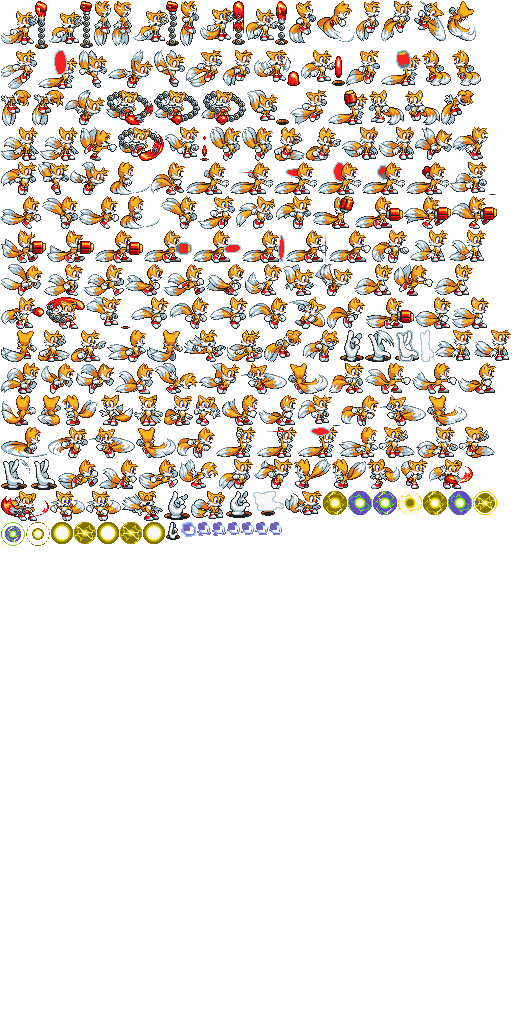
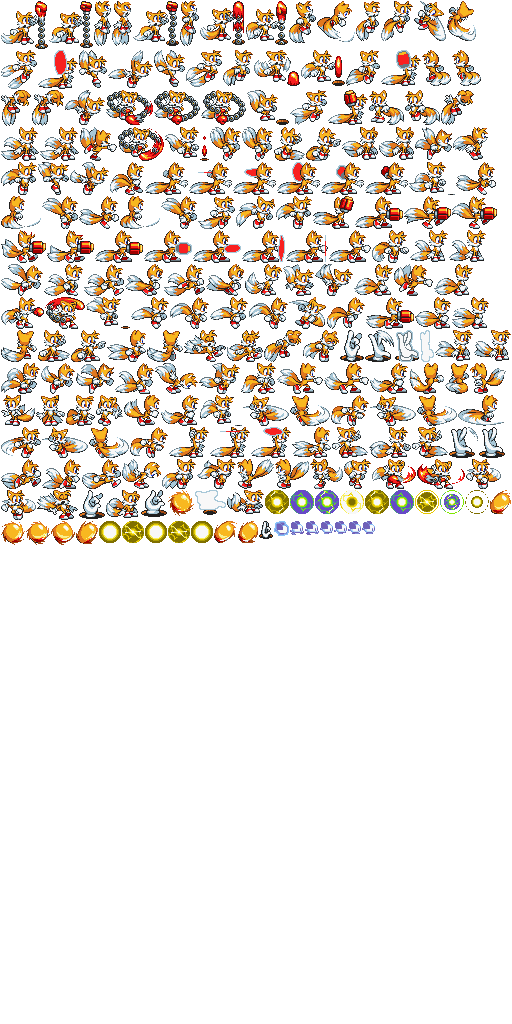
Adventure 2: Sonic's Spin Dash for everyone but Rouge, in their colours
Only Sonic's sheet has a Spin Dash, so the packer lends his (Sonic Wave's
spin in place, Sonic Meteor's ball) to Tails, Knuckles, Amy and Shadow,
swapping his four blues for their own main colour from each sheet's palette
strip. Amy gains the move; the others rev and roll as their coloured ball.
Rouge has none: Down + Space does nothing for her (a plank still drops).

(Carried over from Mikale4/post-parade@13b97d0, where Red Ring Circuit began as the hall's arcade cabinet.)

Changed region(s): [[0.0, 0.3438, 1.0, 0.5312], [0.2188, 0.1562, 0.9688, 0.1875], [0.0, 0.1875, 0.0938, 0.2188]]

diff --git a/adventure-sprites.js b/adventure-sprites.js
@@ -36,37 +36,39 @@
       "fx.airshot": [[53,64,50,50,25.0],[350,64,47,47,23.5],[104,64,49,49,24.5],[1,64,51,51,25.5],[154,64,47,49,23.5],[1,116,46,46,23.0],[398,64,47,47,23.5],[258,64,52,48,26.0],[311,64,38,48,19.0]],
       "fx.ring": [[452,440,15,15,7.5],[468,440,14,15,7.0],[483,440,14,15,7.0],[1,469,14,15,7.0],[48,469,15,13,7.5]],
       "fx.trap": [[64,469,15,13,7.5],[80,469,16,13,8.0],[16,469,16,15,8.0],[33,469,14,15,7.0]],
+      "spin": [[59,440,26,26,12.9],[148,440,24,24,12.0],[173,440,24,24,12.1],[198,440,24,24,12.0]],
     } },
     tails: { url: "assets/guests/sb-tails.png", w: 512, h: 1024, f: {
       "idle": [[410,230,38,32,27.6],[435,330,38,31,27.5],[342,127,36,33,26.6],[1,127,38,34,26.1],[449,230,37,32,26.6],[474,330,37,31,26.5],[379,127,35,33,25.6],[40,127,39,34,27.1]],
       "dash": [[1,363,39,31,25.2],[1,264,42,32,22.6],[415,127,37,33,20.5],[41,363,34,31,19.5],[76,363,38,31,20.7]],
       "start": [[44,264,39,32,29.2]],
-      "run": [[84,264,40,32,29.8],[115,363,39,31,27.3],[125,264,38,32,29.9],[58,459,40,30,28.8],[164,264,41,32,29.1],[99,459,39,30,28.8],[206,264,38,32,29.9],[139,459,39,30,27.8]],
-      "skid": [[453,127,35,33,23.9],[155,363,43,31,11.4],[179,459,39,30,18.9],[245,264,37,32,26.8]],
-      "jump": [[94,1,17,45,8.7],[112,1,20,45,10.7],[356,1,24,40,15.9],[223,50,30,36,20.0],[219,459,34,30,23.6]],
+      "run": [[84,264,40,32,29.8],[115,363,39,31,27.3],[125,264,38,32,29.9],[1,459,40,30,28.8],[164,264,41,32,29.1],[42,459,39,30,28.8],[206,264,38,32,29.9],[82,459,39,30,27.8]],
+      "skid": [[453,127,35,33,23.9],[155,363,43,31,11.4],[122,459,39,30,18.9],[245,264,37,32,26.8]],
+      "jump": [[94,1,17,45,8.7],[112,1,20,45,10.7],[356,1,24,40,15.9],[223,50,30,36,20.0],[162,459,34,30,23.6]],
       "fall": [[1,162,36,33,22.7],[38,162,31,33,13.9],[79,50,28,38,11.2],[154,50,31,37,14.2]],
-      "land": [[283,264,31,32,12.3],[285,491,37,24,22.9],[191,491,34,28,24.0]],
-      "fly": [[199,363,41,31,26.4],[108,50,45,38,30.1],[65,90,40,35,21.0],[315,264,38,32,16.1],[70,162,39,33,22.2],[254,459,39,30,23.0]],
-      "roll": [[241,363,46,31,16.8],[288,363,40,31,11.0],[110,162,40,33,15.4]],
-      "atk1": [[329,363,35,31,24.6],[151,162,34,33,24.6],[365,363,46,31,24.8],[412,363,45,31,29.4],[458,363,38,31,29.0],[354,264,39,32,29.0]],
-      "atk2": [[1,395,35,31,20.6],[37,395,24,31,14.0],[294,459,37,30,18.6],[332,459,34,30,16.5],[62,395,36,31,14.1],[99,395,34,31,11.9],[134,395,29,31,14.5],[164,395,29,31,18.5]],
-      "atk3": [[367,459,33,30,11.0],[194,395,27,31,11.9],[401,459,27,30,13.2],[80,127,37,34,14.2],[394,264,39,32,17.4],[222,395,36,31,23.1],[259,395,38,31,29.0],[434,264,39,32,29.0]],
-      "heavy": [[186,162,43,33,29.9],[230,162,43,33,28.8],[274,162,43,33,26.8],[318,162,43,33,26.1],[362,162,43,33,26.9],[406,162,43,33,27.8],[1,297,43,32,25.2],[429,459,44,30,22.7],[1,491,48,30,22.4],[45,297,40,32,20.9],[118,127,46,34,20.4],[106,90,47,35,20.0],[154,90,46,35,20.3],[201,90,45,35,20.6]],
-      "upper": [[298,395,42,31,20.0],[86,297,44,32,17.7],[247,90,42,35,13.1],[254,50,46,36,22.8],[200,1,45,44,31.6],[1,1,47,48,35.1],[133,1,46,45,33.0],[49,1,44,47,33.3],[246,1,42,44,29.6],[301,50,44,36,23.4],[165,127,44,34,20.5],[450,162,46,33,26.4]],
-      "dashatk": [[1,196,40,33,29.7],[131,297,38,32,27.8],[50,491,35,30,14.5],[241,363,46,31,16.8],[288,363,40,31,11.0],[110,162,40,33,15.4],[341,395,38,31,28.6],[170,297,39,32,24.2],[42,196,36,33,18.1],[210,127,31,34,14.4]],
-      "airatk": [[79,196,40,33,29.7],[210,297,38,32,27.8],[86,491,35,30,14.5],[380,395,46,31,16.8],[427,395,40,31,11.0],[1,427,46,31,31.5],[48,427,40,31,29.1],[89,427,46,31,16.8],[136,427,40,31,11.0],[120,196,40,33,15.4],[177,427,38,31,28.6],[249,297,39,32,24.2],[161,196,36,33,18.1],[242,127,31,34,14.4]],
+      "land": [[283,264,31,32,12.3],[227,490,37,24,22.9],[106,490,34,28,24.0]],
+      "fly": [[199,363,41,31,26.4],[108,50,45,38,30.1],[65,90,40,35,21.0],[315,264,38,32,16.1],[70,162,39,33,22.2],[197,459,39,30,23.0]],
+      "atk1": [[241,363,35,31,24.6],[110,162,34,33,24.6],[277,363,46,31,24.8],[324,363,45,31,29.4],[370,363,38,31,29.0],[354,264,39,32,29.0]],
+      "atk2": [[409,363,35,31,20.6],[445,363,24,31,14.0],[237,459,37,30,18.6],[275,459,34,30,16.5],[470,363,36,31,14.1],[1,395,34,31,11.9],[36,395,29,31,14.5],[66,395,29,31,18.5]],
+      "atk3": [[310,459,33,30,11.0],[96,395,27,31,11.9],[344,459,27,30,13.2],[80,127,37,34,14.2],[394,264,39,32,17.4],[124,395,36,31,23.1],[161,395,38,31,29.0],[434,264,39,32,29.0]],
+      "heavy": [[145,162,43,33,29.9],[189,162,43,33,28.8],[233,162,43,33,26.8],[277,162,43,33,26.1],[321,162,43,33,26.9],[365,162,43,33,27.8],[1,297,43,32,25.2],[372,459,44,30,22.7],[417,459,48,30,22.4],[45,297,40,32,20.9],[118,127,46,34,20.4],[106,90,47,35,20.0],[154,90,46,35,20.3],[201,90,45,35,20.6]],
+      "upper": [[200,395,42,31,20.0],[86,297,44,32,17.7],[247,90,42,35,13.1],[254,50,46,36,22.8],[200,1,45,44,31.6],[1,1,47,48,35.1],[133,1,46,45,33.0],[49,1,44,47,33.3],[246,1,42,44,29.6],[301,50,44,36,23.4],[165,127,44,34,20.5],[409,162,46,33,26.4]],
+      "dashatk": [[456,162,40,33,29.7],[131,297,38,32,27.8],[466,459,35,30,14.5],[243,395,46,31,16.8],[290,395,40,31,11.0],[1,196,40,33,15.4],[331,395,38,31,28.6],[170,297,39,32,24.2],[42,196,36,33,18.1],[210,127,31,34,14.4]],
+      "airatk": [[79,196,40,33,29.7],[210,297,38,32,27.8],[1,490,35,30,14.5],[370,395,46,31,16.8],[417,395,40,31,11.0],[458,395,46,31,31.5],[1,427,40,31,29.1],[42,427,46,31,16.8],[89,427,40,31,11.0],[120,196,40,33,15.4],[130,427,38,31,28.6],[249,297,39,32,24.2],[161,196,36,33,18.1],[242,127,31,34,14.4]],
       "seek": [[180,1,19,45,9.0],[289,1,27,42,15.4],[346,50,34,36,22.8],[1,50,36,39,24.8],[290,90,37,35,26.4],[198,196,37,33,25.6],[186,50,36,37,25.6]],
       "aim": [[381,1,32,40,21.3],[236,196,39,33,24.8],[289,297,37,32,18.8],[414,1,32,40,16.6],[447,1,29,40,14.5],[317,1,38,41,25.4],[327,297,38,32,28.6],[276,196,36,33,22.7]],
-      "shot": [[216,427,40,31,29.0],[257,427,40,31,28.0],[298,427,40,31,25.8],[38,50,40,39,24.2],[381,50,40,36,24.9],[328,90,40,35,25.6],[313,196,41,33,31.1],[366,297,48,32,27.8],[355,196,48,33,27.7],[404,196,47,33,26.6],[452,196,45,33,21.1],[1,230,45,33,23.2],[47,230,47,33,26.4],[95,230,48,33,27.7],[144,230,48,33,27.7],[193,230,48,33,27.7],[242,230,43,33,29.9],[286,230,42,33,28.3],[329,230,42,33,27.7],[415,297,36,32,26.4],[452,297,37,32,27.0]],
-      "power": [[339,427,39,31,29.4],[1,330,36,32,24.0],[422,50,29,36,9.3],[369,90,35,35,9.8],[379,427,36,31,16.5],[38,330,32,32,15.6],[71,330,35,32,18.7],[416,427,42,31,28.6]],
-      "airpower": [[107,330,39,32,30.4],[147,330,36,32,24.0],[452,50,29,36,9.3],[405,90,35,35,9.8],[459,427,36,31,17.2],[274,127,31,34,15.6],[306,127,35,34,20.1],[372,230,37,33,25.0]],
-      "trap": [[339,427,39,31,29.4],[1,330,36,32,24.0],[422,50,29,36,9.3],[369,90,35,35,9.8],[379,427,36,31,16.5],[38,330,32,32,15.6],[71,330,35,32,18.7],[416,427,42,31,28.6]],
-      "airtrap": [[107,330,39,32,30.4],[147,330,36,32,24.0],[452,50,29,36,9.3],[405,90,35,35,9.8],[459,427,36,31,17.2],[274,127,31,34,15.6],[306,127,35,34,20.1],[372,230,37,33,25.0]],
-      "hit": [[122,491,41,30,20.5],[184,330,42,32,22.2],[227,330,36,32,23.4]],
+      "shot": [[169,427,40,31,29.0],[210,427,40,31,28.0],[251,427,40,31,25.8],[38,50,40,39,24.2],[381,50,40,36,24.9],[328,90,40,35,25.6],[313,196,41,33,31.1],[366,297,48,32,27.8],[355,196,48,33,27.7],[404,196,47,33,26.6],[452,196,45,33,21.1],[1,230,45,33,23.2],[47,230,47,33,26.4],[95,230,48,33,27.7],[144,230,48,33,27.7],[193,230,48,33,27.7],[242,230,43,33,29.9],[286,230,42,33,28.3],[329,230,42,33,27.7],[415,297,36,32,26.4],[452,297,37,32,27.0]],
+      "power": [[292,427,39,31,29.4],[1,330,36,32,24.0],[422,50,29,36,9.3],[369,90,35,35,9.8],[332,427,36,31,16.5],[38,330,32,32,15.6],[71,330,35,32,18.7],[369,427,42,31,28.6]],
+      "airpower": [[107,330,39,32,30.4],[147,330,36,32,24.0],[452,50,29,36,9.3],[405,90,35,35,9.8],[412,427,36,31,17.2],[274,127,31,34,15.6],[306,127,35,34,20.1],[372,230,37,33,25.0]],
+      "trap": [[292,427,39,31,29.4],[1,330,36,32,24.0],[422,50,29,36,9.3],[369,90,35,35,9.8],[332,427,36,31,16.5],[38,330,32,32,15.6],[71,330,35,32,18.7],[369,427,42,31,28.6]],
+      "airtrap": [[107,330,39,32,30.4],[147,330,36,32,24.0],[452,50,29,36,9.3],[405,90,35,35,9.8],[412,427,36,31,17.2],[274,127,31,34,15.6],[306,127,35,34,20.1],[372,230,37,33,25.0]],
+      "hit": [[37,490,41,30,20.5],[184,330,42,32,22.2],[227,330,36,32,23.4]],
       "out": [[1,90,30,36,16.5],[32,90,32,36,18.4],[441,90,33,35,19.8],[264,330,38,32,28.5],[303,330,36,32,26.3]],
-      "fx.shot": [[323,491,24,24,12.0],[51,522,22,22,11.0],[348,491,24,24,12.0],[74,522,22,22,11.0],[373,491,24,24,12.0],[97,522,22,22,11.0],[398,491,24,24,12.0],[120,522,22,22,11.0],[423,491,24,24,12.0],[143,522,22,22,11.0],[448,491,24,24,12.0],[473,491,24,24,12.0],[1,522,24,24,12.0],[26,522,24,24,12.0]],
-      "fx.power": [[166,522,14,18,7.0],[340,330,24,32,12.0],[226,491,26,27,13.0],[164,491,26,29,13.0],[365,330,29,32,14.5],[1,459,29,31,14.5],[31,459,26,31,13.0],[395,330,24,32,12.0],[253,491,31,25,15.5],[420,330,14,32,7.0]],
-      "fx.trap": [[181,522,15,15,7.5],[227,522,13,13,6.5],[197,522,14,14,7.0],[241,522,13,13,6.5],[255,522,13,13,6.5],[212,522,14,14,7.0],[269,522,13,13,6.5]],
+      "fx.shot": [[265,490,24,24,12.0],[99,521,22,22,11.0],[290,490,24,24,12.0],[122,521,22,22,11.0],[315,490,24,24,12.0],[145,521,22,22,11.0],[340,490,24,24,12.0],[168,521,22,22,11.0],[365,490,24,24,12.0],[191,521,22,22,11.0],[390,490,24,24,12.0],[415,490,24,24,12.0],[440,490,24,24,12.0],[465,490,24,24,12.0]],
+      "fx.power": [[259,521,14,18,7.0],[340,330,24,32,12.0],[141,490,26,27,13.0],[79,490,26,29,13.0],[365,330,29,32,14.5],[449,427,29,31,14.5],[479,427,26,31,13.0],[395,330,24,32,12.0],[195,490,31,25,15.5],[420,330,14,32,7.0]],
+      "fx.trap": [[274,521,15,15,7.5],[320,521,13,13,6.5],[290,521,14,14,7.0],[334,521,13,13,6.5],[348,521,13,13,6.5],[305,521,14,14,7.0],[362,521,13,13,6.5]],
+      "rev": [[214,521,23,22,13.3],[490,490,21,24,12.5],[76,521,22,23,12.6],[238,521,20,22,11.8]],
+      "spin": [[168,490,26,26,12.9],[1,521,24,24,12.0],[26,521,24,24,12.1],[51,521,24,24,12.0]],
     } },
     knuckles: { url: "assets/guests/sb-knuckles.png", w: 512, h: 1024, f: {
       "idle": [[289,214,25,34,10.3],[1,178,26,35,10.2],[28,178,29,35,10.9],[370,285,31,33,11.8],[315,214,30,34,12.4],[58,178,27,35,11.8],[86,178,26,35,11.9],[402,285,25,33,12.2]],
@@ -77,9 +79,9 @@
       "jump": [[121,100,26,38,13.3],[148,100,27,38,13.7],[374,214,29,34,14.4],[94,320,30,33,12.8],[258,388,29,32,11.5]],
       "fall": [[113,178,30,35,13.6],[144,178,36,35,18.7],[181,178,37,35,19.7],[59,140,35,36,17.9]],
       "land": [[212,455,35,31,18.0],[165,488,34,30,18.2],[248,455,30,31,15.6]],
-      "glide": [[288,388,30,32,12.2],[128,520,34,28,16.0],[1,550,42,22,24.6],[44,550,42,22,23.9],[446,520,37,23,19.5],[163,520,33,28,15.7]],
+      "glide": [[288,388,30,32,12.2],[128,520,34,28,16.0],[162,550,42,22,24.6],[205,550,42,22,23.9],[76,550,37,23,19.5],[163,520,33,28,15.7]],
       "cling": [[33,520,31,29,15.8]],
-      "ball": [[347,520,24,24,12.0],[372,520,24,24,12.1],[397,520,24,24,12.0],[228,520,26,26,12.9]],
+      "ball": [[374,520,24,24,12.0],[399,520,24,24,12.1],[424,520,24,24,12.0],[228,520,26,26,12.9]],
       "atk1": [[404,214,24,34,11.3],[429,214,27,34,14.2],[219,178,41,35,16.3],[95,140,38,36,14.1],[125,320,34,33,14.7],[457,214,27,34,12.5]],
       "atk2": [[459,57,35,39,12.7],[176,100,30,38,19.2],[1,100,40,39,19.8],[296,100,40,37,16.1],[160,320,30,33,14.7],[191,320,32,33,17.8],[1,250,31,34,15.3]],
       "atk3": [[279,455,33,31,16.7],[313,455,38,31,21.1],[224,320,32,33,19.4],[96,57,43,41,26.2],[366,1,42,43,23.6],[409,1,28,42,20.5],[140,57,30,41,20.7],[33,250,30,34,12.5],[64,250,25,34,11.5]],
@@ -92,14 +94,16 @@
       "shot": [[84,214,29,35,11.7],[352,455,24,31,12.1],[226,488,30,30,14.0],[257,488,31,30,13.2],[223,422,31,32,12.0],[337,100,28,37,15.3],[250,57,26,41,11.9],[68,100,26,39,11.7],[95,100,25,39,11.2],[238,100,26,38,15.0],[289,488,35,30,15.9],[377,455,34,31,17.0],[255,422,32,32,15.8],[68,354,28,33,13.4]],
       "airshot": [[97,354,28,33,13.2],[288,422,29,32,14.9],[469,250,27,34,11.7],[286,140,32,36,12.6],[319,140,31,36,12.5],[114,214,31,35,13.5],[126,354,31,33,13.2]],
       "power": [[158,354,32,33,13.8],[318,422,30,32,16.8],[412,455,31,31,17.5],[349,422,30,32,15.1],[351,140,29,36,12.9],[381,140,33,36,15.3],[146,214,27,35,14.2],[191,354,42,33,15.3],[234,354,41,33,16.9],[276,354,40,33,17.0],[1,285,35,34,15.3],[37,285,27,34,12.5],[317,354,23,33,11.2],[380,422,25,32,13.4],[444,455,27,31,14.9],[65,285,25,34,13.5],[366,100,26,37,12.0],[393,100,28,37,11.2],[174,214,34,35,14.8],[64,57,31,42,15.9],[277,57,30,41,16.7],[395,57,30,40,16.7],[91,285,27,34,14.0],[341,354,28,33,12.1],[119,285,26,34,13.0],[415,140,27,36,12.1],[209,214,28,35,12.5],[238,214,23,35,11.7],[422,100,34,37,17.4],[457,100,36,37,17.3],[370,354,32,33,15.3],[443,140,30,36,13.7],[403,354,29,33,11.9],[406,422,29,32,10.9],[436,422,31,32,15.4],[433,354,28,33,11.8]],
-      "airpower": [[347,520,24,24,12.0],[372,520,24,24,12.1],[397,520,24,24,12.0],[228,520,26,26,12.9],[87,550,24,21,11.9],[112,550,24,21,12.0],[158,550,24,19,12.4],[183,550,26,19,13.2],[270,550,45,15,10.5],[316,550,22,15,11.1],[484,520,24,23,11.6],[146,285,30,34,13.3],[283,1,25,46,16.7],[309,1,26,46,17.1],[336,1,29,44,16.0],[1,140,26,37,12.5],[177,285,27,34,12.9]],
+      "airpower": [[374,520,24,24,12.0],[399,520,24,24,12.1],[424,520,24,24,12.0],[228,520,26,26,12.9],[293,550,24,21,11.9],[318,550,24,21,12.0],[364,550,24,19,12.4],[389,550,26,19,13.2],[1,575,45,15,10.5],[47,575,22,15,11.1],[114,550,24,23,11.6],[146,285,30,34,13.3],[283,1,25,46,16.7],[309,1,26,46,17.1],[336,1,29,44,16.0],[1,140,26,37,12.5],[177,285,27,34,12.9]],
       "trap": [[262,214,26,35,13.1],[308,57,29,41,11.6],[338,57,30,41,10.3],[462,354,31,33,16.3],[93,520,34,29,18.4],[325,488,31,30,16.7],[472,455,32,31,17.9],[1,388,30,33,18.5],[205,285,29,34,12.4]],
       "airtrap": [[357,488,28,30,13.8],[1,488,32,31,12.1],[235,285,39,34,24.5],[265,100,30,38,16.4],[426,57,32,40,18.5],[474,140,34,36,17.2],[32,388,37,33,20.6]],
       "hit": [[275,285,32,34,13.2],[70,388,31,33,13.9],[308,285,30,34,12.6]],
       "out": [[28,140,30,37,15.7],[339,285,30,34,15.8],[102,388,31,33,19.1],[468,422,26,32,14.8]],
       "fx.shot": [[1,1,47,55,23.5],[145,1,45,53,22.5],[237,1,45,47,22.5],[191,1,45,53,22.5],[49,1,47,55,23.5],[97,1,47,55,23.5]],
-      "fx.power": [[137,550,20,20,10.0],[386,488,30,30,15.0],[422,520,23,24,11.5],[255,520,26,26,13.0],[197,520,30,28,15.0],[417,488,32,30,16.0],[1,455,32,32,16.0],[34,455,32,32,16.0],[450,488,32,30,16.0],[282,520,32,26,16.0],[315,520,31,25,15.5]],
-      "fx.trap": [[210,550,14,16,7.0],[225,550,14,16,7.0],[240,550,14,16,7.0],[255,550,14,16,7.0]],
+      "fx.power": [[343,550,20,20,10.0],[386,488,30,30,15.0],[449,520,23,24,11.5],[255,520,26,26,13.0],[197,520,30,28,15.0],[417,488,32,30,16.0],[1,455,32,32,16.0],[34,455,32,32,16.0],[450,488,32,30,16.0],[282,520,32,26,16.0],[342,520,31,25,15.5]],
+      "fx.trap": [[416,550,14,16,7.0],[431,550,14,16,7.0],[446,550,14,16,7.0],[461,550,14,16,7.0]],
+      "rev": [[248,550,23,22,13.3],[473,520,21,24,12.5],[139,550,22,23,12.6],[272,550,20,22,11.8]],
+      "spin": [[315,520,26,26,12.9],[1,550,24,24,12.0],[26,550,24,24,12.1],[51,550,24,24,12.0]],
     } },
     amy: { url: "assets/guests/sb-amy.png", w: 512, h: 512, f: {
       "idle": [[195,224,28,33,15.5],[224,224,24,33,13.4],[187,188,23,34,12.8],[249,224,25,33,14.0],[275,224,28,33,15.9],[304,224,30,33,16.0],[211,188,33,34,17.0],[335,224,33,33,16.8]],
@@ -128,7 +132,9 @@
       "out": [[150,456,29,28,18.1],[180,456,29,28,19.1],[210,456,29,28,18.3],[66,456,30,29,19.6]],
       "fx.shot": [[1,1,52,55,26.0],[54,1,52,55,26.0],[213,1,52,54,26.0],[266,1,52,54,26.0],[1,57,52,53,26.0],[319,1,52,54,26.0],[372,1,52,54,26.0],[107,1,52,55,26.0],[160,1,52,55,26.0],[425,1,52,54,26.0],[54,57,52,52,26.0]],
       "fx.airshot": [[150,111,52,38,26.0],[456,111,52,37,26.0],[1,150,52,37,26.0],[326,150,52,36,26.0],[54,150,52,37,26.0],[107,150,52,37,26.0],[203,111,52,38,26.0],[256,111,52,38,26.0],[309,111,52,38,26.0],[379,150,52,36,26.0],[134,188,52,35,26.0]],
-      "fx.trap": [[339,456,10,24,5.0],[395,456,18,14,9.0],[363,456,16,18,8.0],[350,456,12,19,6.0],[414,456,18,13,9.0],[380,456,14,16,7.0]],
+      "fx.trap": [[366,456,10,24,5.0],[91,486,18,14,9.0],[59,486,16,18,8.0],[46,486,12,19,6.0],[110,486,18,13,9.0],[76,486,14,16,7.0]],
+      "rev": [[1,486,23,22,13.3],[377,456,21,24,12.5],[474,456,22,23,12.6],[25,486,20,22,11.8]],
+      "spin": [[339,456,26,26,12.9],[399,456,24,24,12.0],[424,456,24,24,12.1],[449,456,24,24,12.0]],
     } },
     rouge: { url: "assets/guests/sb-rouge.png", w: 512, h: 512, f: {
       "idle": [[62,173,24,37,12.7],[105,94,25,38,12.6],[131,94,26,38,12.5],[363,1,27,39,13.7],[391,1,28,39,14.8],[420,1,29,39,16.9]],
@@ -193,6 +199,8 @@
       "fx.shot": [[316,656,30,28,15.0],[1,489,42,34,21.0],[29,274,46,36,23.0],[178,110,48,42,24.0],[409,56,48,48,24.0],[458,56,48,48,24.0],[1,110,48,48,24.0],[50,110,48,48,24.0],[99,110,48,48,24.0]],
       "fx.power": [[30,159,52,39,26.0],[65,56,58,52,29.0],[181,1,60,53,30.0],[1,1,61,54,30.5],[232,56,58,50,29.0],[242,1,56,53,28.0],[63,1,58,54,29.0],[291,56,57,50,28.5],[174,56,57,51,28.5],[299,1,59,53,29.5],[349,56,59,49,29.5],[359,1,62,53,31.0],[422,1,62,53,31.0],[1,56,63,53,31.5],[122,1,58,54,29.0],[124,56,49,52,24.5]],
       "fx.trap": [[26,656,31,31,15.5],[58,656,31,31,15.5],[182,656,29,29,14.5],[212,656,29,29,14.5],[347,656,27,27,13.5],[375,656,27,27,13.5]],
+      "rev": [[121,688,23,22,13.3],[1,688,21,24,12.5],[98,688,22,23,12.6],[145,688,20,22,11.8]],
+      "spin": [[473,656,26,26,12.9],[23,688,24,24,12.0],[48,688,24,24,12.1],[73,688,24,24,12.0]],
     } },
   };
 })(window);

diff --git a/adventure.js b/adventure.js
@@ -22,7 +22,9 @@
  *               one special for the ground and one for the air before a match; here all
  *               three are always to hand.)
  *   a double tap of a direction: the dash, each runner's own. Down: crouch (the landing
- *   frames). Down + Space: a Spin Dash for the four who curl up, or a drop through a plank.
+ *   frames). Down + Space: a Spin Dash for everyone but Rouge (for her it does nothing), or
+ *   a drop through a plank.
+ *   Only Sonic's sheet has a Spin Dash; the others spin his, in their own colours.
  * The moving is their platformers': everyone sinks in deep water and needs air, as in the
  * classic games (Tails alone swims, by flying).
  *   Sonic     the fastest feet; curls into a ball when he jumps; Spin Dash (Sonic 2). In the
@@ -33,8 +35,8 @@
  *   Knuckles  the slowest and lowest jumper, the hardest hitter. Space again in the air,
  *             held, glides; a glide into a wall grabs it, and Up and Down climb (Sonic &
  *             Knuckles). Spin Dash, and he curls when he jumps.
- *   Amy       never curls; her Piko Piko Hammer is in her heavy, upper and air attacks, and
- *             Up + X swings her into a Hammer Jump (Sonic Advance). Double Jump.
+ *   Amy       her Piko Piko Hammer is in her heavy, upper and air attacks, and Up + X
+ *             swings her into a Hammer Jump (Sonic Advance). Double Jump. Spin Dash.
  *   Rouge     flies on her wings for a short while, then glides down slowly; Down lets go
  *             (Rouge Catch). Kicks, and Spiral Dive drills down through rock.
  *   Shadow    the fastest in Sonic Battle, skating on his Air Shoes; Chaos Control: Space in
@@ -85,10 +87,10 @@
       grades: { Speed: "C", Jump: "C", Air: "A", Power: "S" },
       text: "Hold Space in the air to glide; glide into a wall to grab it, then climb with Up and Down. Slow, and hits the hardest." },
     { id: "amy", name: "Amy", w: 0.54, h: 1.0, run: 13.6, accel: 20, airAccel: 13, jump: 12.1,
-      air: "double", from: "Amy Rose",
+      spinDash: true, air: "double", from: "Amy Rose",
       moves: "Piko Piko Hammer",
       grades: { Speed: "A", Jump: "B", Air: "B", Power: "A" },
-      text: "A Double Jump, and her Piko Piko Hammer: Up + X swings her into a Hammer Jump. The quickest fists of the six." },
+      text: "A Double Jump, a Spin Dash, and her Piko Piko Hammer: Up + X swings her into a Hammer Jump. The quickest fists of the six." },
     { id: "rouge", name: "Rouge", w: 0.56, h: 1.14, run: 12.9, accel: 18, airAccel: 15, jump: 12.4,
       air: "fly", flyTime: 3, glides: true, from: "Rouge the Bat",
       moves: "Flight · Spiral Dive",
@@ -1212,6 +1214,7 @@
       const onPlank = p.ground && p.onTile === null && !p.on && tile(Math.floor(p.x), Math.floor(p.y - 0.1)) === "-";
       if (input.D && onPlank) { p.drop = true; p.ground = false; p.y -= 0.12; p.state = "run"; }
       else if (input.D && p.ground && c.spinDash && p.state !== "roll") startCharge(p);
+      else if (input.D && p.ground && !c.spinDash) { /* no Spin Dash (Rouge): Down + Space does nothing */ }
       else if ((p.ground || p.coyote > 0) && p.state !== "fly" && p.state !== "glide") jump(p, mud);
       else airAction(p);
     }
@@ -1221,7 +1224,7 @@
       else if ((input.zp || input.xp) && free) startAttack(p, input.zp ? "light" : "heavy");
       else if (input.cp && free) startSpecial(p);
     }
-    // Down: crouch when still, curl into a roll when running (the four who curl)
+    // Down: crouch when still, curl into a roll when running (everyone with a Spin Dash)
     if (p.state === "run" && p.ground && input.D) {
       if (c.spinDash && Math.abs(p.vx) > 4) { p.state = "roll"; p.curl = true; SFX.roll(); }
       else if (Math.abs(p.vx) < 4) p.state = "crouch";
@@ -1867,7 +1870,6 @@
     p.landT = Math.max(0, p.landT - dt); p.dblT = Math.max(0, (p.dblT || 0) - dt);
     p.balT = Math.max(0, (p.balT || 0) - dt); p.catchT = Math.max(0, (p.catchT || 0) - dt);
     const count = nm => framesOf(id, nm).length;
-    const ball = id === "tails" ? "roll" : "ball";
     let name, fps = 10, loop = true, face = p.face, pick = null;
     if (p.dead) { name = "out"; fps = 8; loop = false; }
     else switch (p.state) {
@@ -1876,8 +1878,8 @@
       case "special": name = p.sp.body; pick = () => Math.floor(p.sp.t * p.sp.fps) % count(name); break;
       case "seek": name = "seek"; fps = 14; loop = false; break;
       case "homing": name = "ball"; fps = 30; break;
-      case "charge": name = id === "sonic" ? "rev" : ball; fps = 14 + p.rev * 22; break;
-      case "roll": name = ball; fps = 12 + sp * 1.4; break;
+      case "charge": name = "rev"; fps = 14 + p.rev * 22; break;              // Sonic's Spin Dash, in their colours
+      case "roll": name = "spin"; fps = 12 + sp * 1.4; break;
       case "dash": name = "dash"; fps = 16; loop = false; break;
       case "crouch": {                                     // the landing frames, down to the deepest, held
         const L = framesOf(id, "land"); let k = 0;
